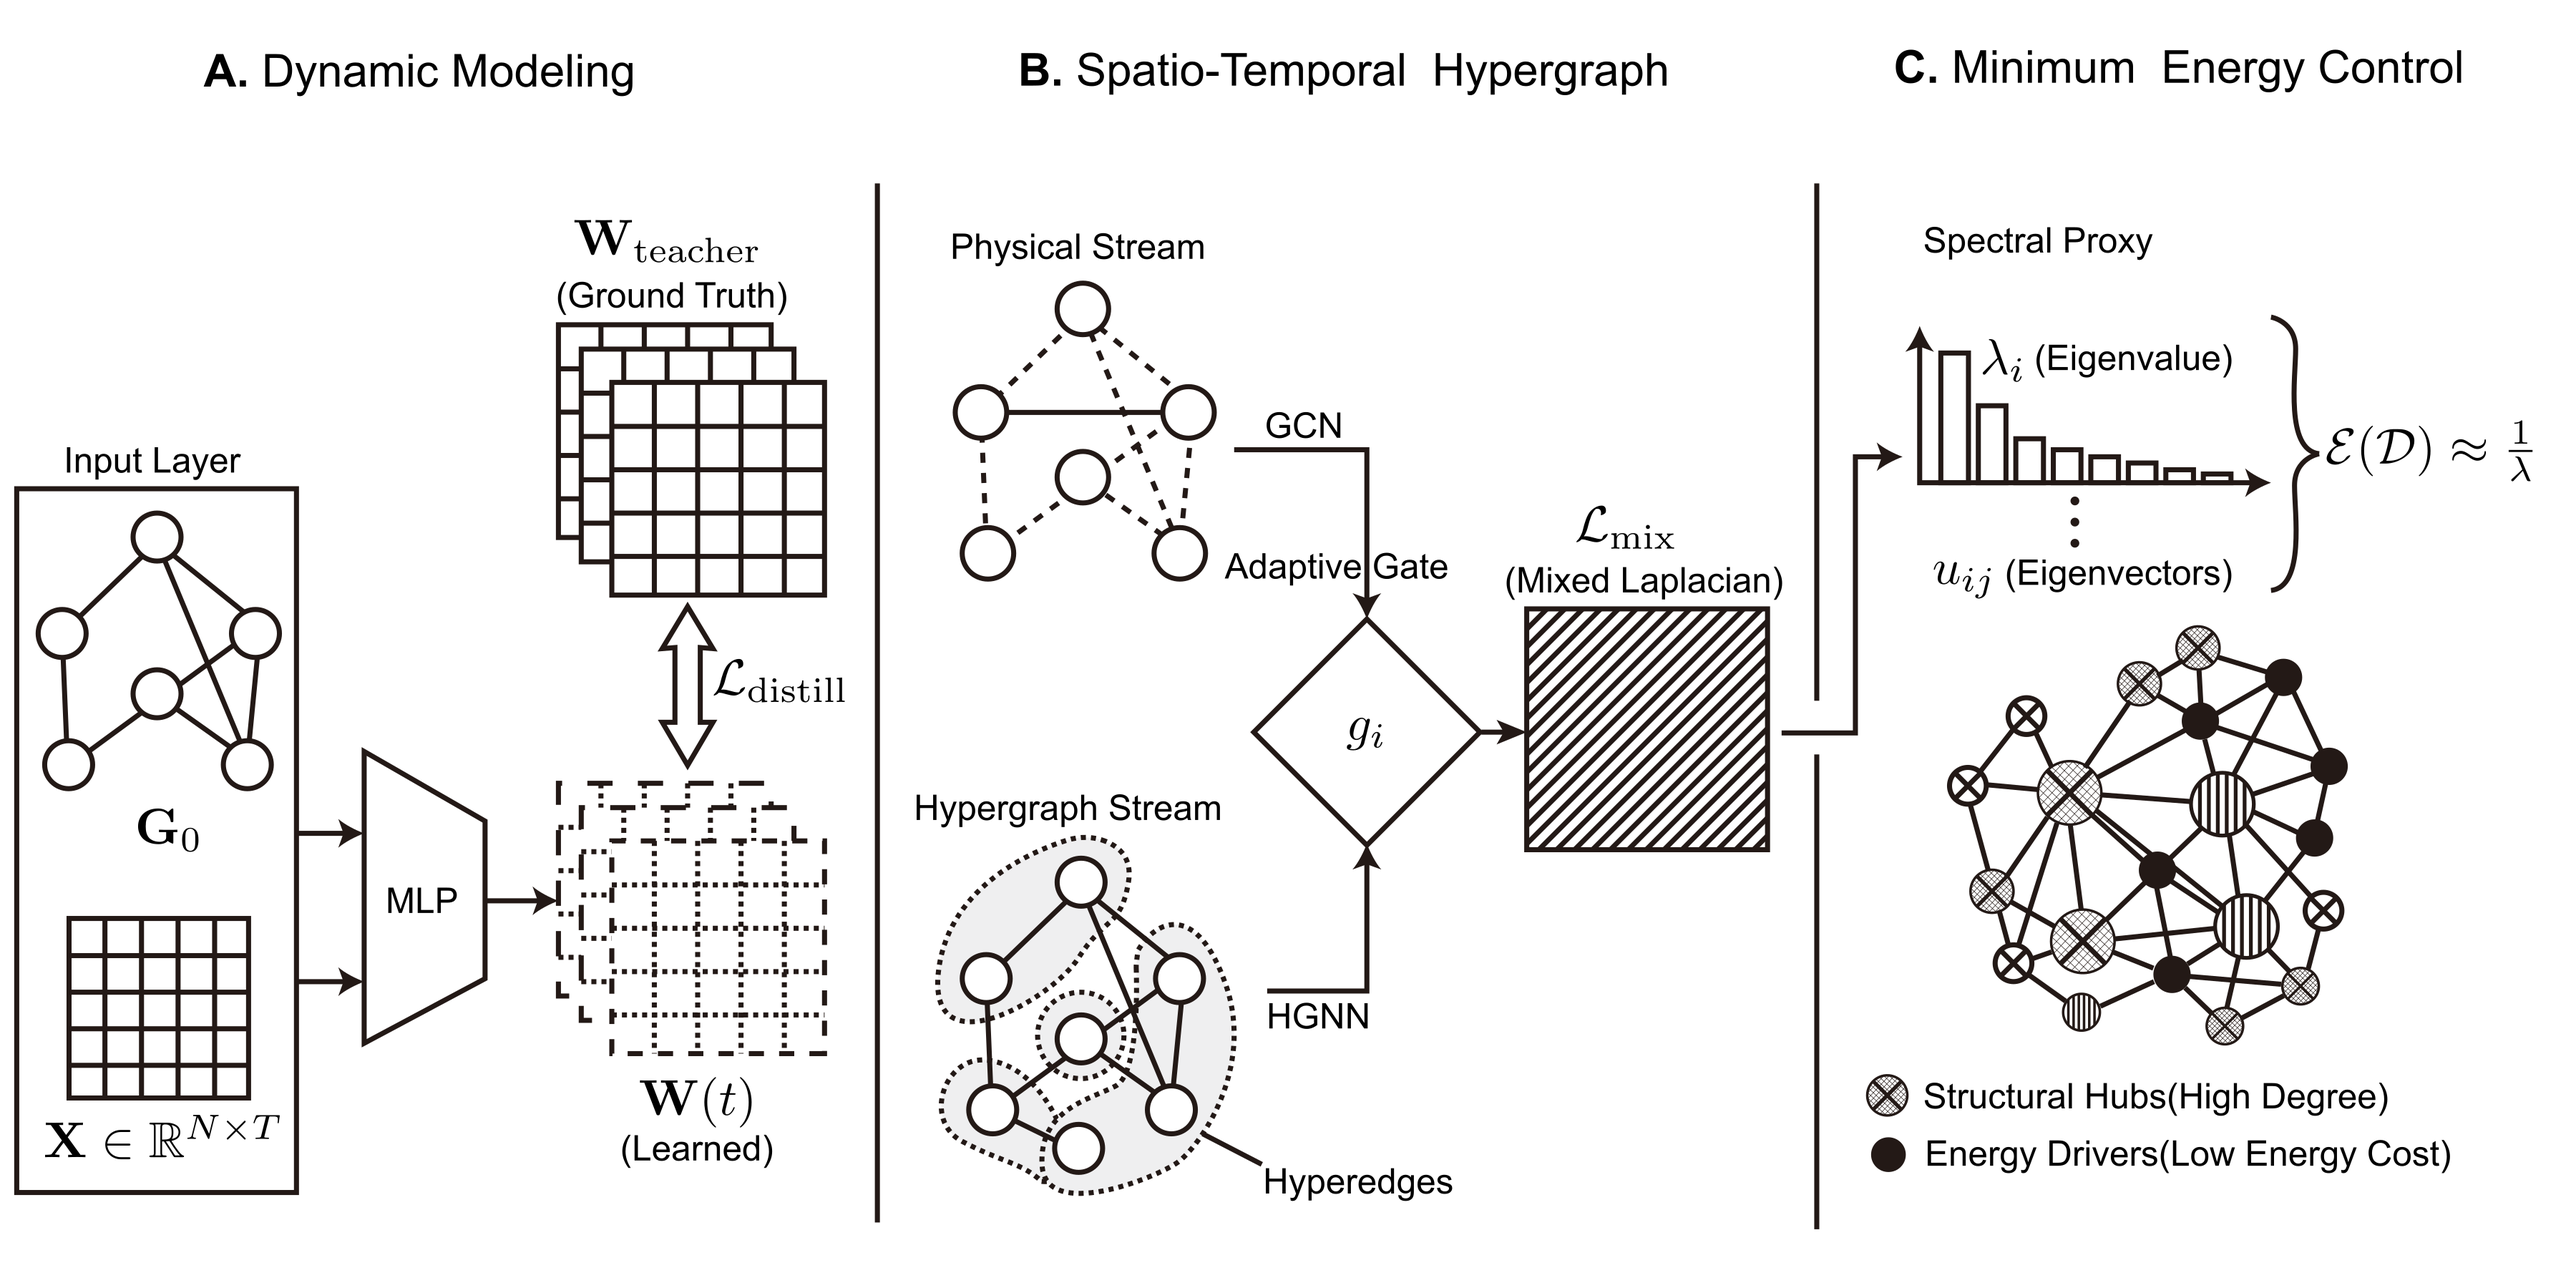
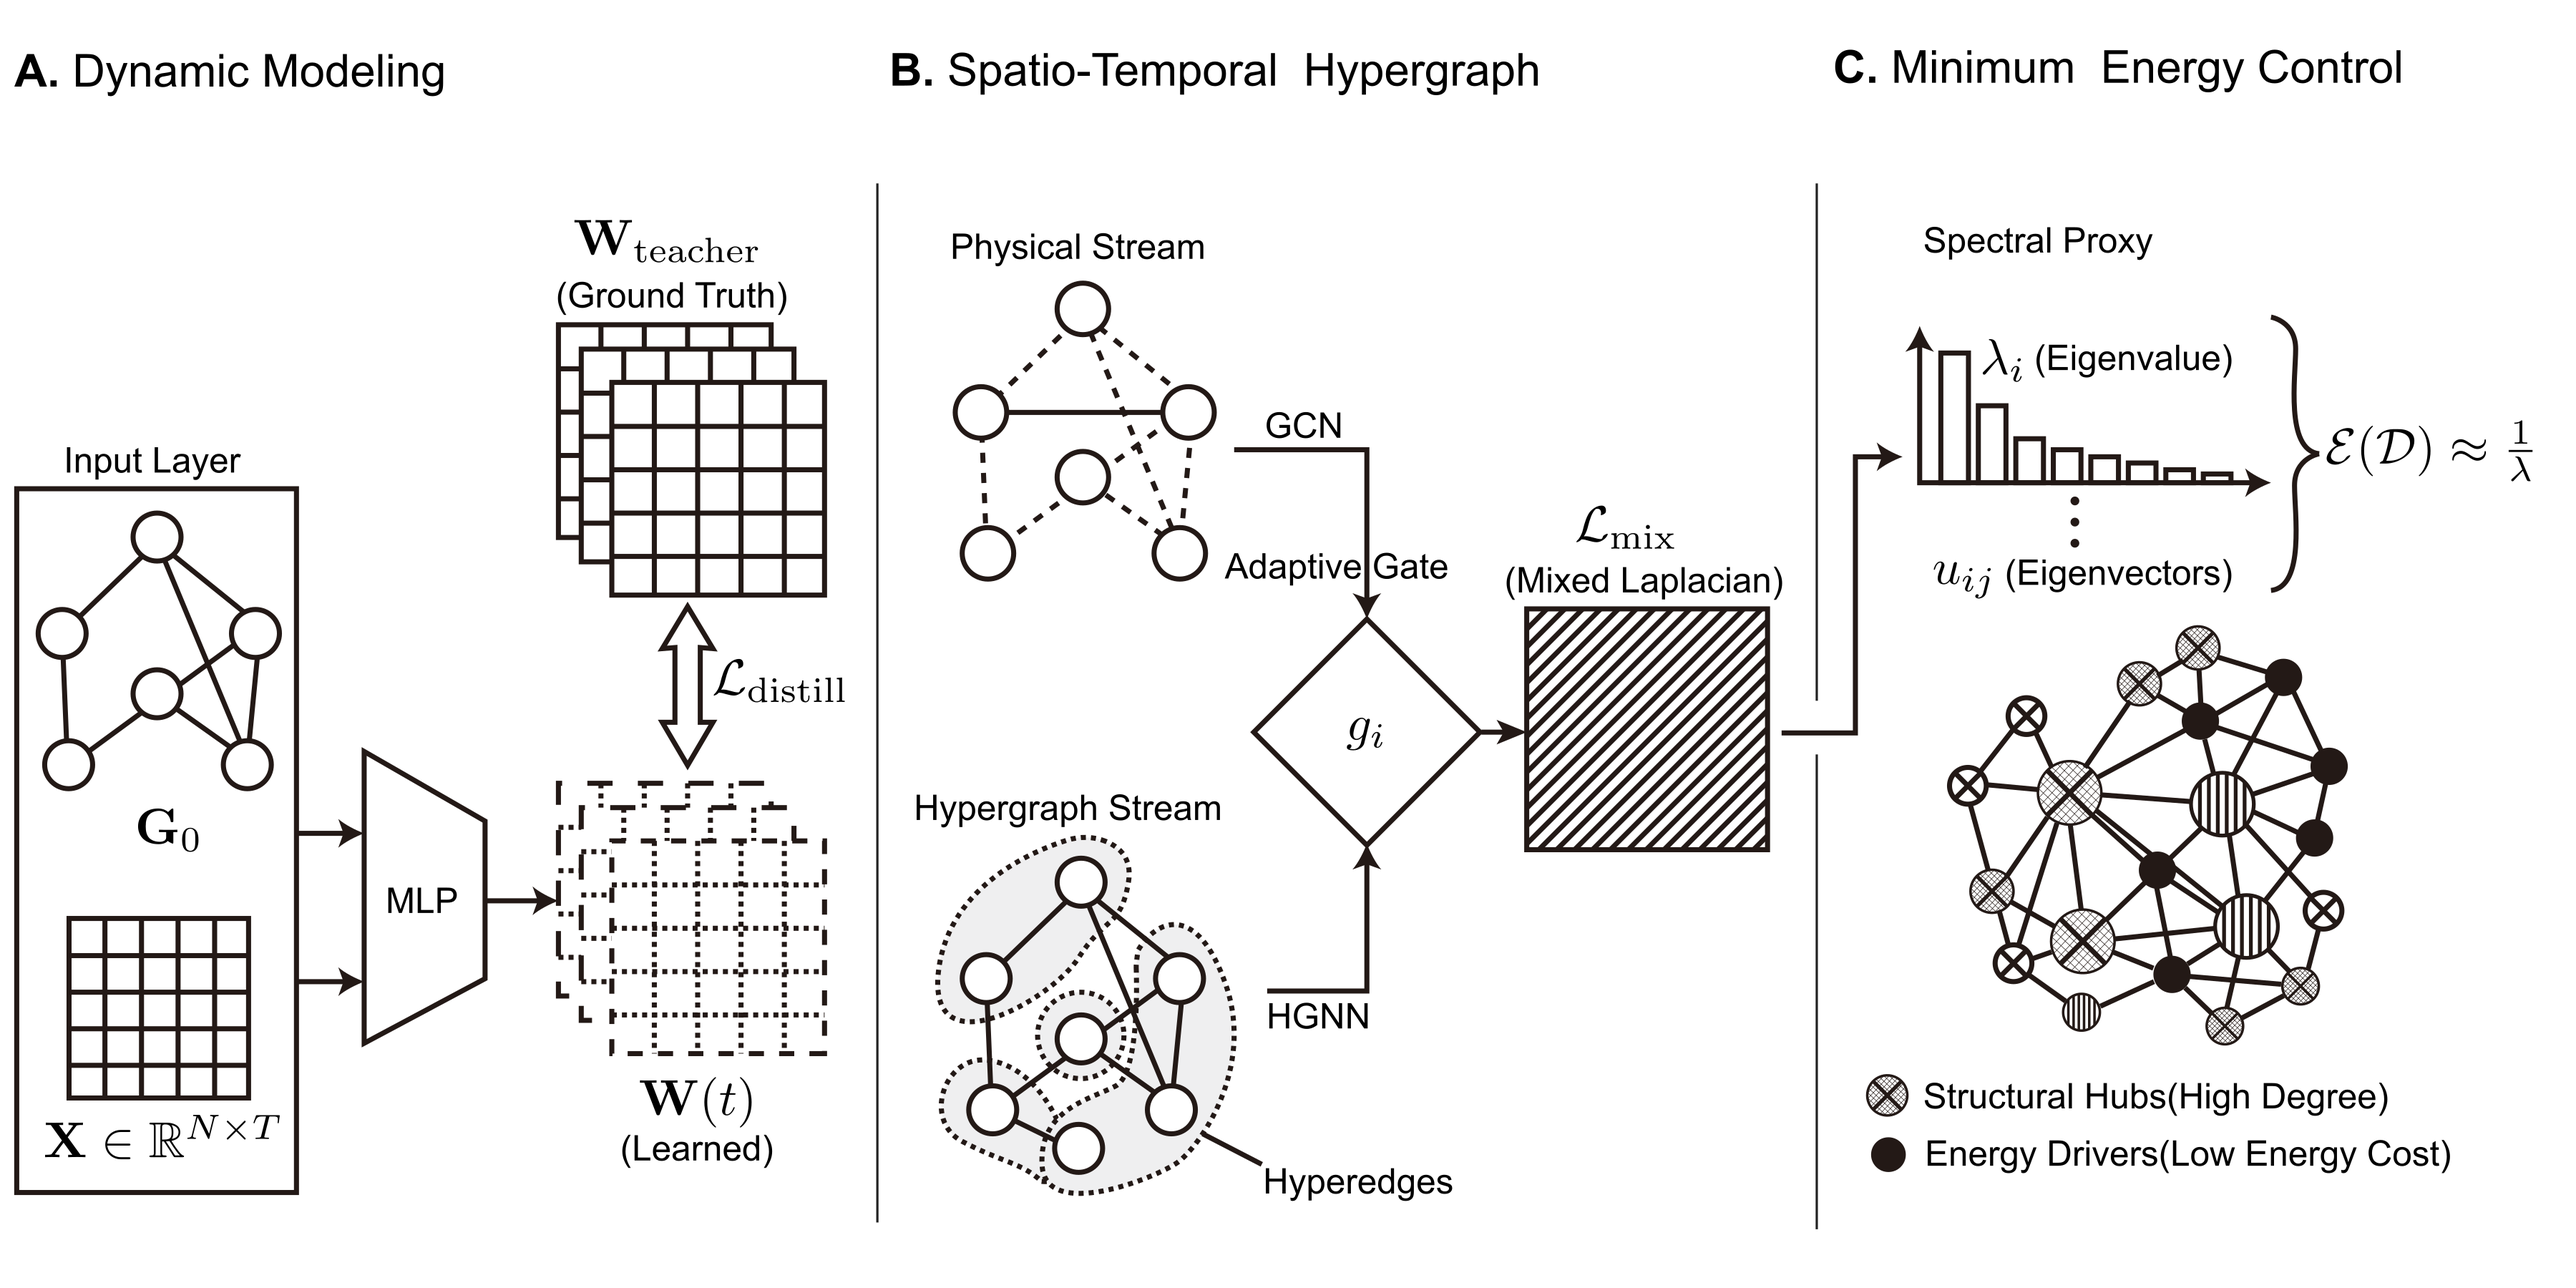
modified: Figure changes and caseStudy path change.

Changed region(s): [[0.3422, 0.0311, 0.6533, 0.0933], [0.0, 0.0311, 0.2489, 0.0933], [0.7156, 0.0311, 0.9644, 0.0622]]

diff --git a/README.md b/README.md
@@ -39,20 +39,20 @@ HyperDriver/
 ├── data/                         # Raw datasets (Static_PPIN, Dynamic_PPIN, Node_Features, etc.)
 ├── docs/                         # Figures for documentation (e.g., Figure-0.png)
 ├── resource/                     # Auxiliary scripts for validation & ground-truth preparation
+│   ├── driver_case_study/        # Identify representative proteins for case studies
+│   │   └── main.py
 │   ├── energy_case_study/        # (Physics Exp) Exact Lyapunov energy calculation (dense subnet)
-│   │   └── main_case_study.py
+│   │   └── main.py
 │   └── node_labels_with_essential/  # (Data Prep) Essential protein label generation
-│       └── run.py
+│       └── main.py
 ├── src/                          # Core source code
 │   ├── control_engine.py         # Spectral energy proxy & greedy search (control module)
 │   ├── hyper_driver.py           # Model + scoring pipeline
 │   └── layers.py                 # Basic neural network / HGNN layers
 ├── baselines_centrality.py       # Baselines: DC / BC / EC
 ├── eval_driver.py                # Main evaluation logic (“Efficiency Battle”)
-├── find_case_study_candidates.py # Identify representative proteins for case studies
 ├── plot_nature_figs.py           # Visualization suite for paper figures
-├── run.py                        # [MASTER SCRIPT] One-click end-to-end pipeline
-├── requirements.txt
+├── main.py                        # [MASTER SCRIPT] One-click end-to-end pipeline
 └── README.md
 ```
 
@@ -62,7 +62,7 @@ HyperDriver/
 
 - **Python**: 3.12+
 - **PyTorch**: 2.5+
-- OS: Windows / Linux / macOS (tested on Windows 10 + NVIDIA GPU)
+- OS: Windows / Linux / macOS (tested on Windows 10 + NVIDIA GeForce RTX 4060 Laptop GPU + 13th Gen Intel(R) Core(TM) i9-13900H 2.60GHz + 16GB MEM)
 
 Core dependencies typically include: `torch`, `torch-geometric` (for GNN parts), `numpy`, `pandas`, `scipy`, `networkx`, `matplotlib`, `seaborn`, `tqdm`.
 
@@ -95,15 +95,15 @@ We provide a hierarchical workflow to reproduce all experiments reported in the 
 
 Before running the main model, generate the **Essential Protein** labels by integrating biological databases (e.g., SGD, OGEE, DEG).
 
-- **Script location:** `resource/node_labels_with_essential/run.py`
+- **Script location:** `resource/node_labels_with_essential/main.py`
 - **Command:**
 
 ```bash
 cd resource/node_labels_with_essential
-python run.py
+python main.py
 ```
 
-- **Output:** generates `data/Node_labels_with_essential.csv` (or similarly named label file).
+- **Output:** generates `output/Node_labels_with_essential.csv`.
 
 ---
 
@@ -111,55 +111,67 @@ python run.py
 
 Run the master script from the repository root to execute the full pipeline:
 
-- **Script location:** `run.py`
+- **Script location:** `main.py`
 - **What it does:**
   1. **Preprocessing**: constructs dynamic graphs for all datasets.
   2. **Training**: trains the HyperDriver model (with distillation if enabled).
   3. **Baselines**: computes Degree / Betweenness / Eigenvector and random baselines.
-  4. **Evaluation**: runs the **Efficiency Battle** (e.g., Figure 4) and ablation studies (e.g., Figure 5).
+  4. **Evaluation**: runs the **Efficiency Battle** (e.g., Yu_efficiency_battle.png) and ablation studies (e.g., Yu_ablation_battle.png).
 
 - **Command:**
 
 ```bash
 # Ensure you are in the root directory (e.g., D:\HyperDriver or ~/HyperDriver)
-python run.py
+python main.py
 ```
 
 - **Outputs:**
   - Results are saved under `results/<dataset>/full/` (CSV scores, metrics, logs).
-  - Figures are saved under `figures/`.
+  - Figures are saved under figures/ `ablation_battles`,`energy_battles`,`global_summary`,`top_drivers`.
 
+---
+| Ablation Battle (Yu) Figure | Efficiency Battle (Yu) Figure | Top Drivers (Yu) Figure |
+| :---: | :---: | :---: |
+| ![](docs/Yu_ablation_battle.png) | ![](docs/Yu_efficiency_battle.png) | ![](docs/Yu_top_drivers.png) |
+| Global Ablation Summary Figure | Global Driver Composition Figure | Global Efficiency Summary Figure |
+| ![](docs/global_ablation_summary.png) | ![](docs/global_driver_composition.png) | ![](docs/global_efficiency_summary.png) |
 ---
 
 ### Step 3: Physical Minimum-Energy Verification (Case Study I)
 
 To validate the spectral proxy, we solve the **exact Lyapunov equation** on a dense sub-network (a “ground-truth” physics simulation).
 
-- **Script location:** `resource/energy_case_study/main_case_study.py`
+- **Script location:** `resource/energy_case_study/main.py`
 - **Command:**
 
 ```bash
 cd resource/energy_case_study
-python main_case_study.py
+python main.py
 ```
 
 - **Output:** generates resource\energy_case_study\output\ `energy_results_63_nodes.csv`, `energy_comparison_case_study.png`.
+---
+
+| Energy Comparison Case Study Figure |
+| :--- |
+| <img src="docs/energy_comparison_case_study.png" width="50%" /> |
 
 ---
+
 
 ### Step 4: Key Driver Protein Identification (Case Study II)
 
 To screen for the representative proteins discussed in the paper (e.g., the “Hidden Driver” **YGR192C**), run the candidate selector:
 
-- **Script location:** `find_case_study_candidates.py`
+- **Script location:** `resource/driver_case_study/main.py`
 - **Command:**
 
 ```bash
-# Ensure you are in the root directory (e.g., D:\HyperDriver or ~/HyperDriver)
-python find_case_study_candidates.py
+cd resource/driver_case_study
+python main.py
 ```
 
-- **Output:** generates `results/best_case_study_representatives.csv`.
+- **Output:** generates resource\driver_case_study\output\ `case_study_candidates.csv`,`best_case_study_representatives.csv`.
 
 ---
 ## Datasets
@@ -206,7 +218,7 @@ By default, the pipeline organizes outputs as:
 - `figures/`  
   - paper-ready plots produced by `plot_nature_figs.py`
 
-If your project uses different directories (e.g., `outputs/`), update `conf/` and `run.py` accordingly.
+If your project uses different directories (e.g., `outputs/`), update `conf/` and `main.py` accordingly.
 
 ---
 
